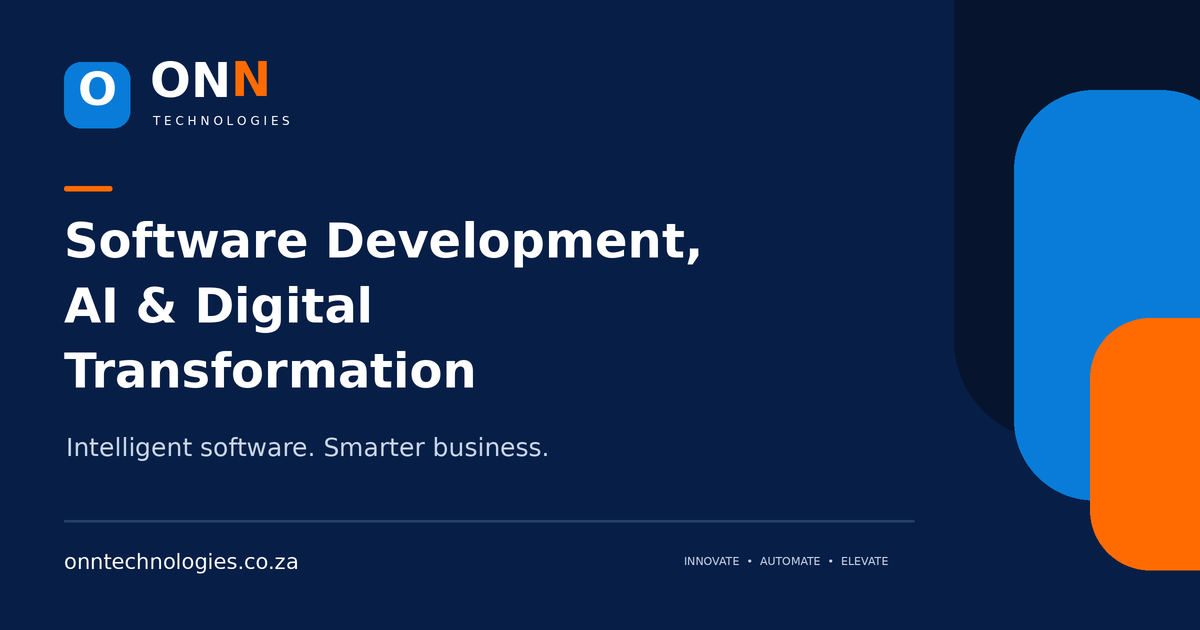
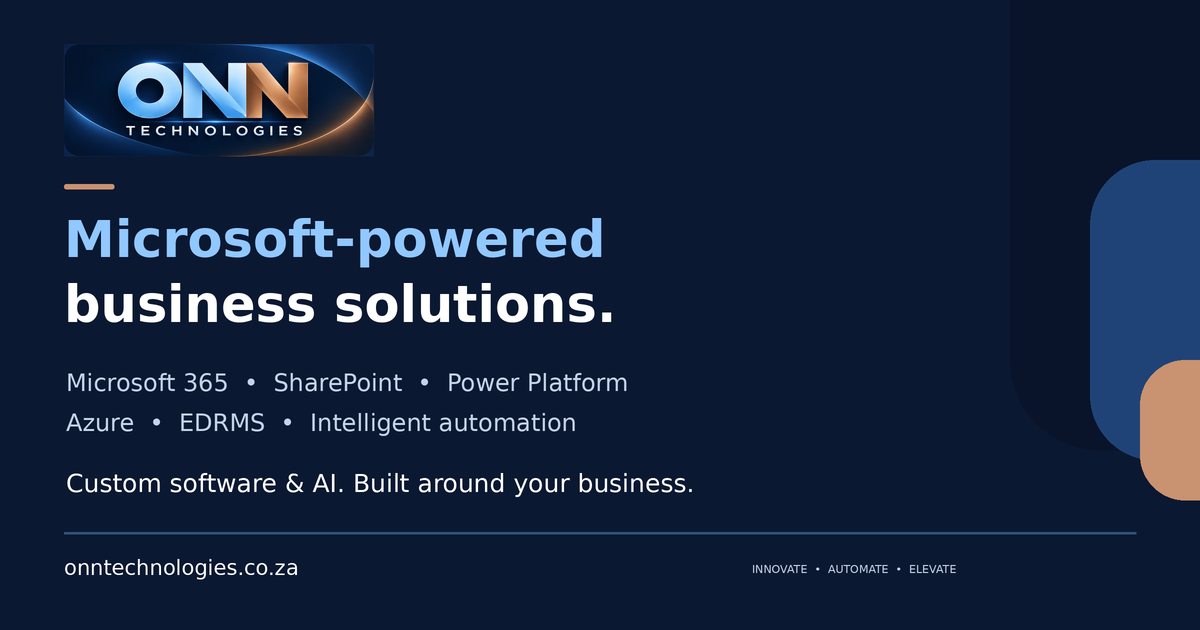
Align social card and metadata with Microsoft business solutions

diff --git a/index.html b/index.html
@@ -7,26 +7,26 @@
   <link rel="icon" type="image/png" sizes="16x16" href="/favicon-16x16.png?v=20261018">
   <link rel="icon" type="image/png" sizes="32x32" href="/favicon-32x32.png?v=20261018">
   <link rel="apple-touch-icon" sizes="180x180" href="/apple-touch-icon.png?v=20261018">
-  <meta name="description" content="ONN Technologies designs Microsoft-powered business solutions across Microsoft 365, SharePoint, Power Platform, Azure, EDRMS and intelligent automation in South Africa.">
+  <meta name="description" content="ONN Technologies builds Microsoft-powered business solutions across Microsoft 365, SharePoint, Power Platform, Azure and EDRMS, with custom software, AI and intelligent automation in South Africa.">
   <link rel="canonical" href="https://onntechnologies.co.za/">
   <meta name="robots" content="index,follow,max-image-preview:large">
   <meta property="og:type" content="website">
   <meta property="og:site_name" content="ONN Technologies">
   <meta property="og:url" content="https://onntechnologies.co.za/">
   <meta property="og:title" content="ONN Technologies | Microsoft Business Solutions">
-  <meta property="og:description" content="ONN Technologies designs Microsoft-powered business solutions across Microsoft 365, SharePoint, Power Platform, Azure, EDRMS and intelligent automation in South Africa.">
+  <meta property="og:description" content="ONN Technologies builds Microsoft-powered business solutions across Microsoft 365, SharePoint, Power Platform, Azure and EDRMS, with custom software, AI and intelligent automation in South Africa.">
   <meta property="og:image" content="https://onntechnologies.co.za/images/onn-social-card.png">
   <meta property="og:image:secure_url" content="https://onntechnologies.co.za/images/onn-social-card.png">
   <meta property="og:image:type" content="image/png">
   <meta property="og:image:width" content="1200">
   <meta property="og:image:height" content="630">
-  <meta property="og:image:alt" content="ONN Technologies — Software Development, AI &amp; Digital Transformation. Intelligent software. Smarter business.">
+  <meta property="og:image:alt" content="ONN Technologies — Microsoft-powered business solutions. Microsoft 365, SharePoint, Power Platform, Azure, EDRMS and intelligent automation. Custom software &amp; AI. Built around your business.">
   <meta name="twitter:card" content="summary_large_image">
   <meta name="twitter:title" content="ONN Technologies | Microsoft Business Solutions">
-  <meta name="twitter:description" content="ONN Technologies designs Microsoft-powered business solutions across Microsoft 365, SharePoint, Power Platform, Azure, EDRMS and intelligent automation in South Africa.">
+  <meta name="twitter:description" content="ONN Technologies builds Microsoft-powered business solutions across Microsoft 365, SharePoint, Power Platform, Azure and EDRMS, with custom software, AI and intelligent automation in South Africa.">
   <meta name="twitter:image" content="https://onntechnologies.co.za/images/onn-social-card.png">
-  <meta name="twitter:image:alt" content="ONN Technologies — Software Development, AI &amp; Digital Transformation. Intelligent software. Smarter business.">
-  <script type="application/ld+json">{"@context":"https://schema.org","@type":"Organization","name":"ONN Technologies","url":"https://onntechnologies.co.za/","email":"info@onntechnologies.co.za","description":"ONN Technologies designs Microsoft-powered business solutions across Microsoft 365, SharePoint, Power Platform, Azure, EDRMS and intelligent automation in South Africa.","areaServed":{"@type":"Country","name":"South Africa"}}</script>
+  <meta name="twitter:image:alt" content="ONN Technologies — Microsoft-powered business solutions. Microsoft 365, SharePoint, Power Platform, Azure, EDRMS and intelligent automation. Custom software &amp; AI. Built around your business.">
+  <script type="application/ld+json">{"@context":"https://schema.org","@type":"Organization","name":"ONN Technologies","url":"https://onntechnologies.co.za/","email":"info@onntechnologies.co.za","description":"ONN Technologies builds Microsoft-powered business solutions across Microsoft 365, SharePoint, Power Platform, Azure and EDRMS, with custom software, AI and intelligent automation in South Africa.","areaServed":{"@type":"Country","name":"South Africa"}}</script>
   <!-- Google Analytics 4: ONN Technologies -->
   <script async src="https://www.googletagmanager.com/gtag/js?id=G-RWSY60K7QZ"></script>
   <script>

diff --git a/scripts/generate-social-card.py b/scripts/generate-social-card.py
@@ -1,4 +1,5 @@
-"""Render the ONN social card. Requires Pillow and DejaVu Sans (Debian fonts-dejavu-core).
+"""Render the ONN social card using the website's logo and signature palette.
+Requires Pillow and DejaVu Sans (Debian fonts-dejavu-core).
 Run from any directory: python scripts/generate-social-card.py
 Only the published PNG is needed by the website; no runtime dependencies are added.
 """
@@ -7,36 +8,35 @@ from PIL import Image, ImageDraw, ImageFont
 
 ROOT = Path(__file__).resolve().parent.parent
 SCALE = 2
-NAVY, INK, BLUE, ORANGE, WHITE = '#071f47', '#06152d', '#087cd8', '#ff6b00', '#ffffff'
+NAVY, INK, BLUE, COPPER, WHITE = '#0b1831', '#09142b', '#91c8ff', '#c99270', '#ffffff'
 image = Image.new('RGB', (1200 * SCALE, 630 * SCALE), NAVY)
 draw = ImageDraw.Draw(image)
 
-def box(coords, color, radius=0, outline=None):
-    draw.rounded_rectangle(tuple(int(v * SCALE) for v in coords), radius=radius * SCALE,
-                           fill=color, outline=outline, width=2 * SCALE)
+def box(coords, color, radius=0):
+    draw.rounded_rectangle(tuple(int(v * SCALE) for v in coords), radius=radius * SCALE, fill=color)
 
 def text(x, y, value, size, color=WHITE, bold=False):
     font = ImageFont.truetype('DejaVuSans-Bold.ttf' if bold else 'DejaVuSans.ttf', size * SCALE)
+    # Keep all text within the card's safe area; fail rather than silently clip copy.
+    bounds = draw.textbbox((x * SCALE, y * SCALE), value, font=font, anchor='lt')
+    assert bounds[2] <= 1140 * SCALE and bounds[3] <= 585 * SCALE, value
     draw.text((x * SCALE, y * SCALE), value, font=font, fill=color, anchor='lt')
-    return draw.textlength(value, font=font) / SCALE
 
-# Restrained geometric motif, kept clear of the message and safe margins.
-box((954, -110, 1290, 440), INK, 100)
-box((1014, 90, 1240, 500), BLUE, 80)
-box((1090, 318, 1270, 570), ORANGE, 60)
-box((64, 62, 130, 128), BLUE, 17)
-text(78, 71, 'O', 46, bold=True)
-x = 150
-x += text(x, 61, 'ON', 48, bold=True)
-text(x, 61, 'N', 48, ORANGE, True)
-text(153, 116, 'T E C H N O L O G I E S', 12)
-box((64, 186, 112, 191), ORANGE, 2)
-text(64, 221, 'Software Development,', 48, bold=True)
-text(64, 286, 'AI & Digital', 48, bold=True)
-text(64, 351, 'Transformation', 48, bold=True)
-text(66, 437, 'Intelligent software. Smarter business.', 25, '#c8d5e7')
-box((64, 520, 914, 522), '#254165')
-text(64, 553, 'onntechnologies.co.za', 21)
-text(684, 557, 'INNOVATE  •  AUTOMATE  •  ELEVATE', 11, '#c8d5e7')
+# Reuse the exact homepage artwork instead of introducing another logo variant.
+logo = Image.open(ROOT / 'onn-logo-brand.webp').convert('RGB')
+logo.thumbnail((310 * SCALE, 114 * SCALE), Image.Resampling.LANCZOS)
+image.paste(logo, (64 * SCALE, 44 * SCALE))
+box((1010, -90, 1290, 450), INK, 90)
+box((1090, 160, 1280, 460), '#204377', 65)
+box((1140, 360, 1280, 500), COPPER, 45)
+box((64, 184, 114, 189), COPPER, 2)
+text(64, 218, 'Microsoft-powered', 51, BLUE, True)
+text(64, 283, 'business solutions.', 51, WHITE, True)
+text(66, 373, 'Microsoft 365  •  SharePoint  •  Power Platform', 24, '#c4d4e9')
+text(66, 413, 'Azure  •  EDRMS  •  Intelligent automation', 24, '#c4d4e9')
+text(66, 473, 'Custom software & AI. Built around your business.', 25, WHITE)
+box((64, 532, 1136, 534), '#2f537d')
+text(64, 559, 'onntechnologies.co.za', 21)
+text(752, 565, 'INNOVATE  •  AUTOMATE  •  ELEVATE', 11, '#c4d4e9')
 image.resize((1200, 630), Image.Resampling.LANCZOS).save(
     ROOT / 'images' / 'onn-social-card.png', optimize=True)
